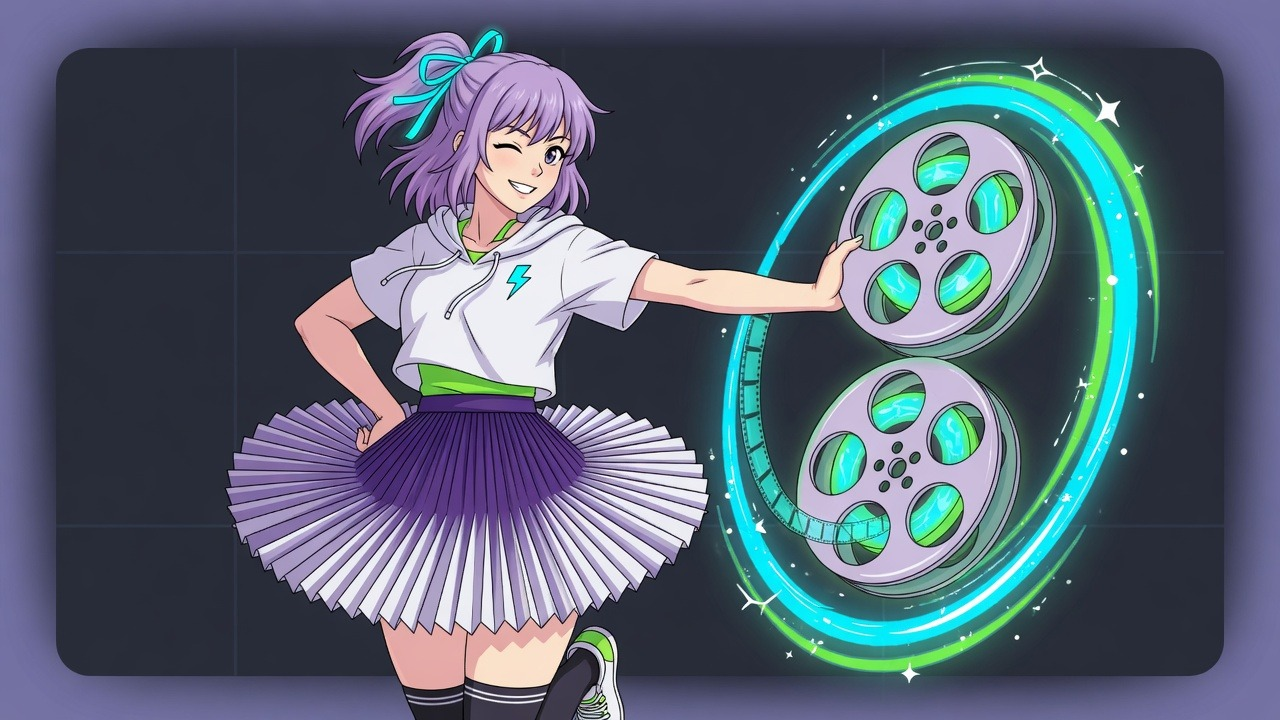
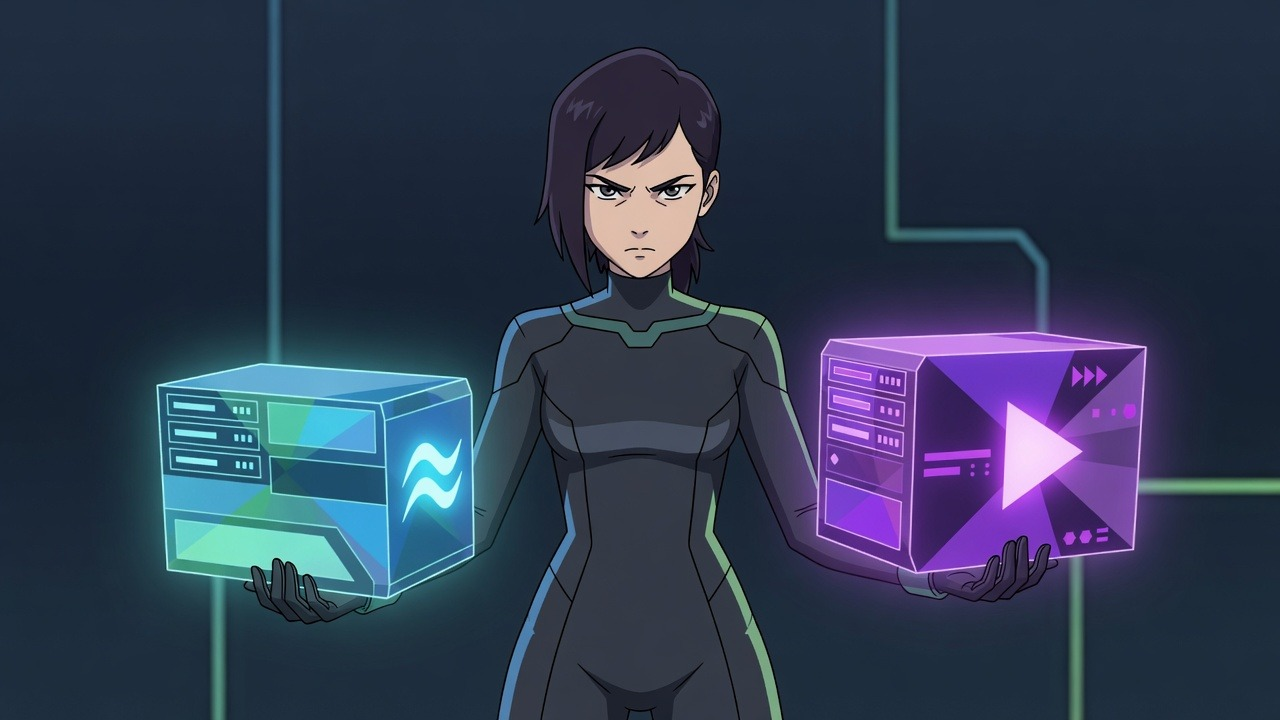
brand: cell header — serious jumper, Emby and Jellyfin devices v0.28.65
README banner only; app icon remains the studio2201 neon sync glyph.
No text in the image; servers shown as color-coded abstract devices.

diff --git a/graphics/BRAND.md b/graphics/BRAND.md
@@ -49,10 +49,11 @@ Headers may use character / scene art. Icons may not.
 
 ### StateSync header (current)
 
-- **Active:** `assets/header.png` (2D cell-animation style; pleated skirt; not wartime)  
-- **Source archive:** `graphics/statesync_header_cell.jpg` (or latest pinup/cell masters)  
-- **Neon geometric archive:** `graphics/statesync_header_neon.jpg`  
-- Optional mascot stills stay under `assets/mascot.png` / `graphics/statesync_mascot.png` and must **not** replace the icon
+- **Active:** `assets/header.png` / `graphics/statesync_header_cell.jpg`
+  - 2D cell animation, serious expression, skin-tight jumper
+  - Emby- and Jellyfin-colored abstract devices in each hand (**no brand text**)
+- Archives: `statesync_header_neon.jpg`, `statesync_header_pinup.jpg`, older cell masters
+
 
 ## README layout (org)
 